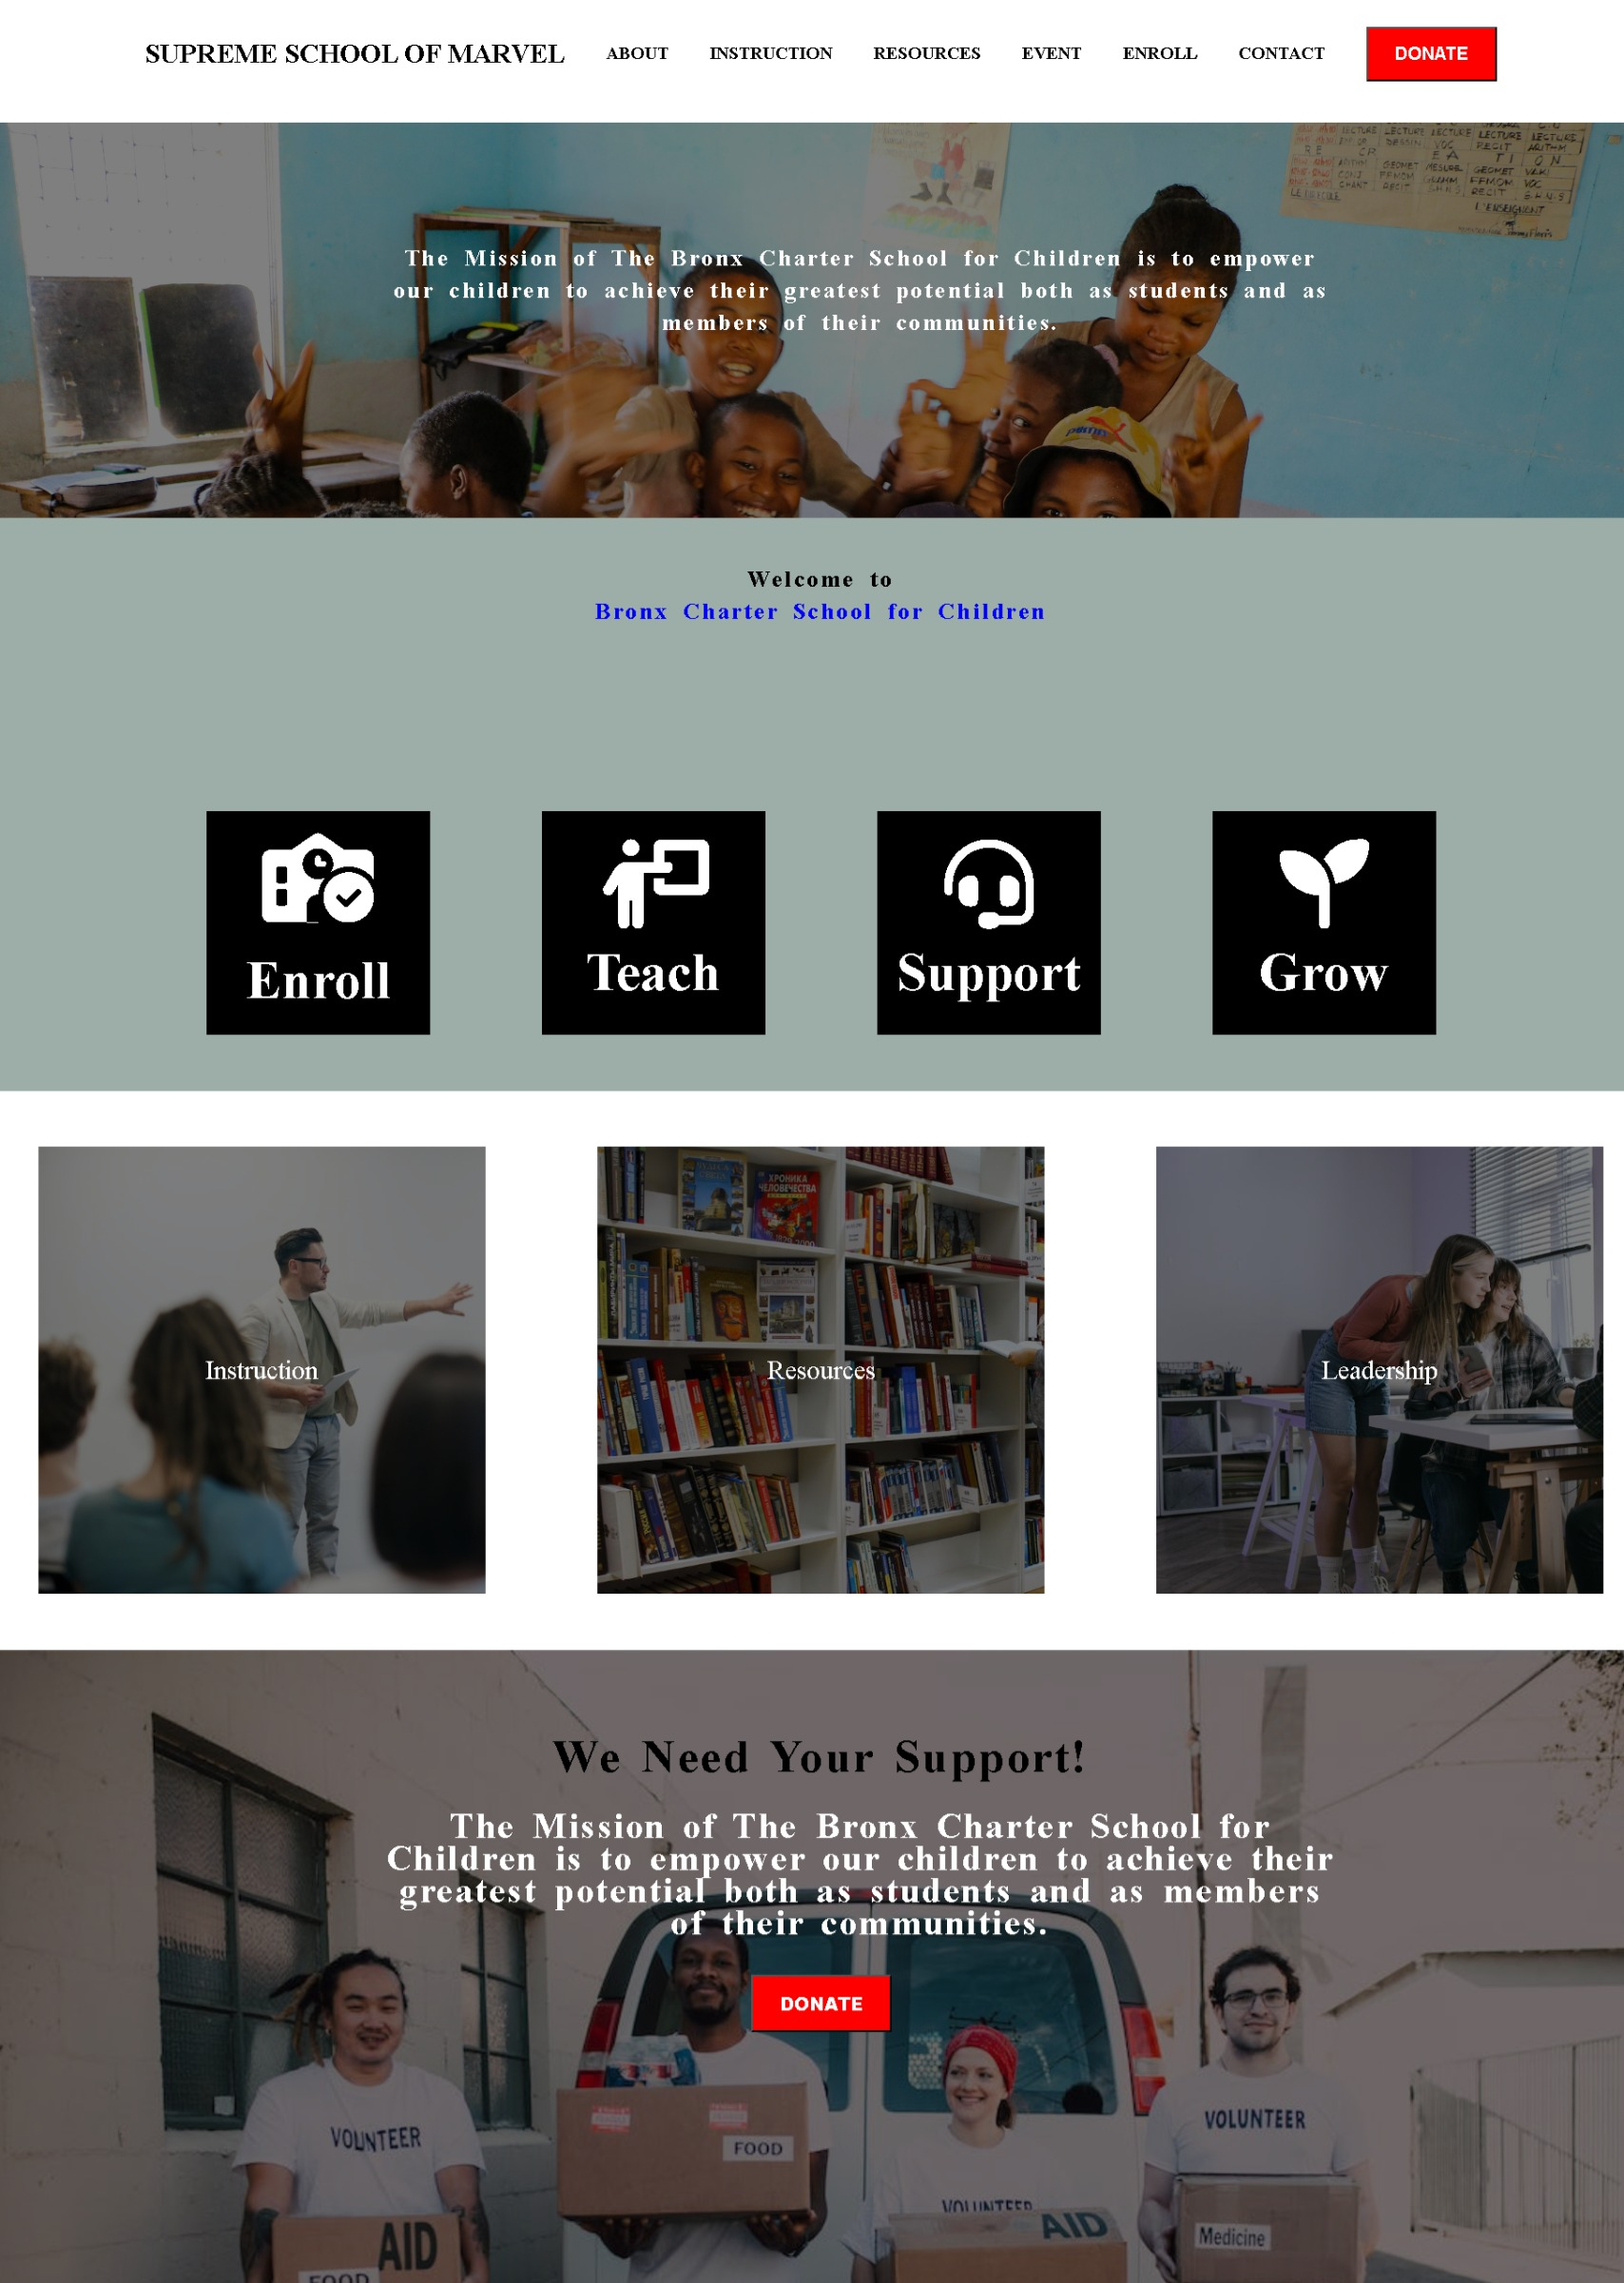
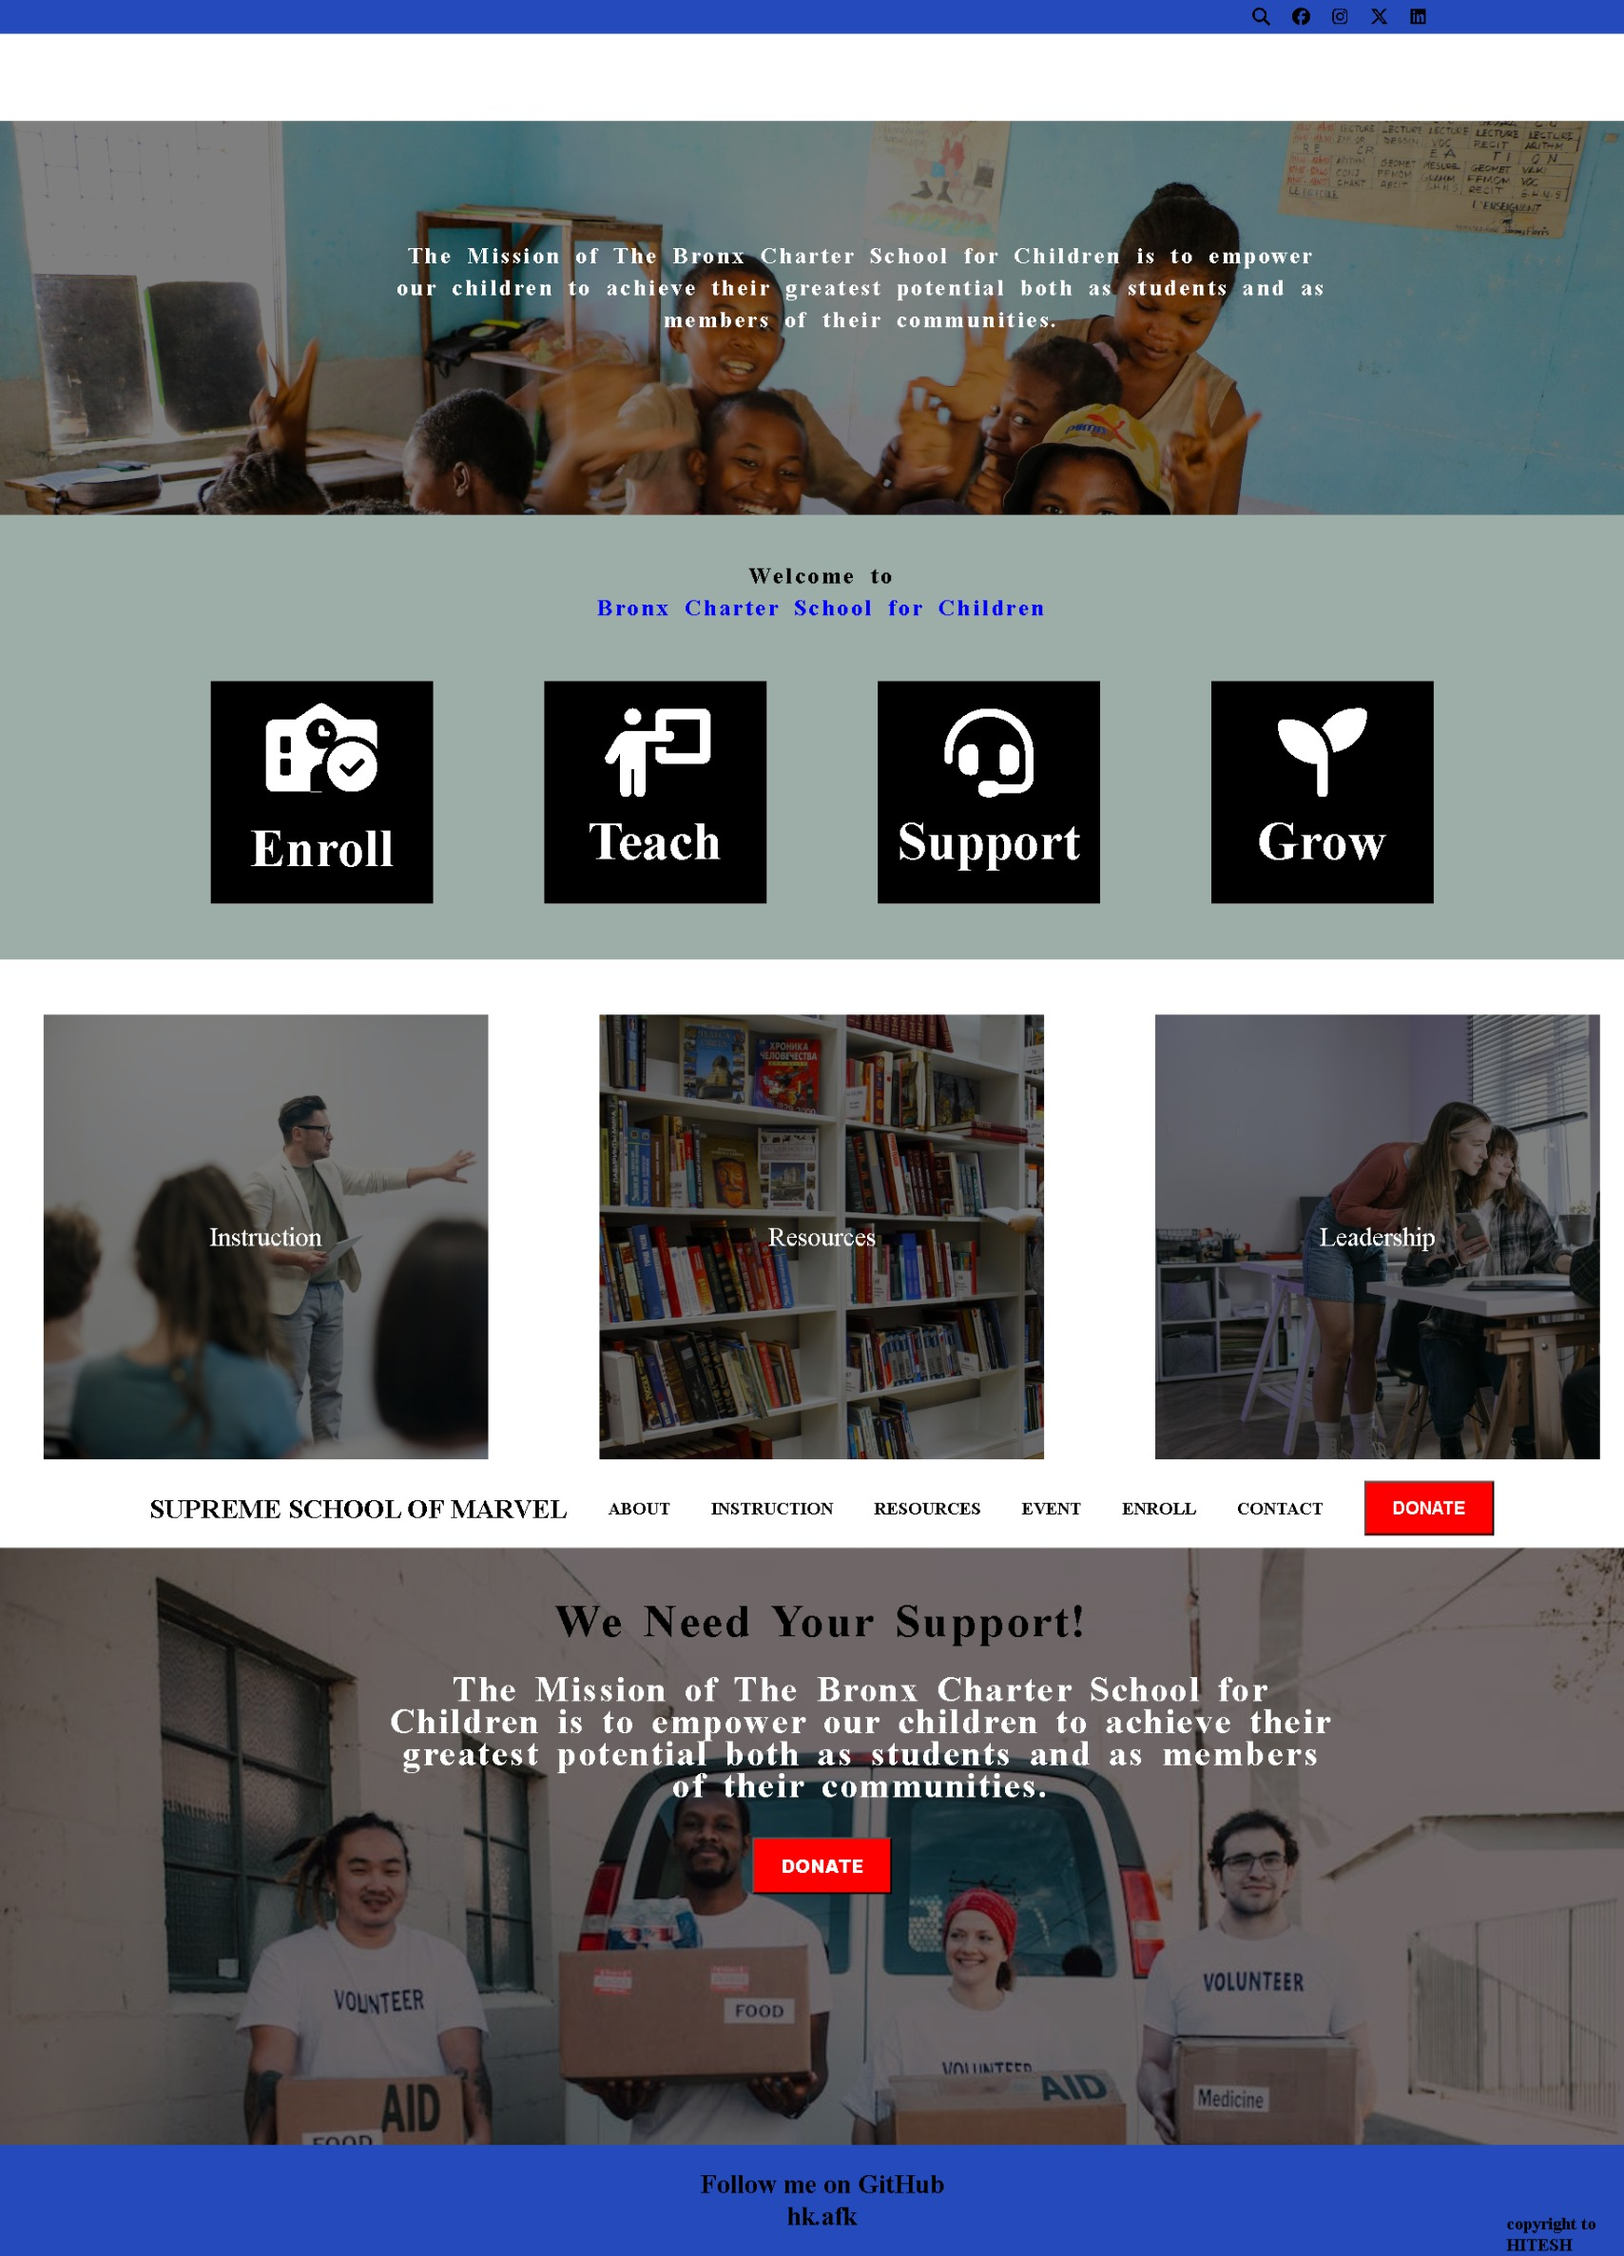
update css

diff --git a/style.css b/style.css
@@ -125,7 +125,7 @@
     padding-top: 0;
     font-size: 1.3rem;
     max-width: 100%;
-    min-height: 30vh;
+    min-height: 100px;
     text-align: justify;
     letter-spacing: 2px;
     word-spacing: 5px;
@@ -472,8 +472,9 @@ footer{
 
 .copy{
     position:absolute;
-    left: 1280px;
+    left: 1360px;
     bottom:0px;
+    font-size: 1rem;
 }
 
 .follow{
